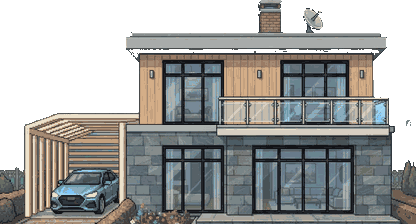
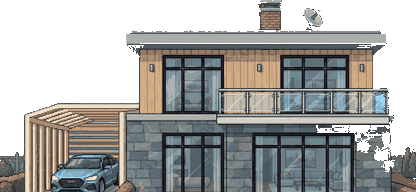
Дом: нижняя кромка по полу навеса; демо подтянута под шесть направлений
Дом обрезан на клетку выше: теперь нижняя кромка спрайта проходит там,
где колёса машины касаются пола навеса и стены встают на землю. При
прежней обрезке в спрайт попадала полоса мостовой, и машина оказывалась
утопленной в грядках. 416×192 = 13×6 клеток.

web-демо подтянута под новый магнетизм: пороги 45°/67.5°, включающие
границы, ручка на диагонали ровно на 45°, джойстик справа внизу. Демка
— эталон ощущений, и расходиться с движком ей нельзя.

Claude-Session: https://claude.ai/code/session_0136gV4z446Ram1BD5cWLTAs

diff --git a/web/index.html b/web/index.html
@@ -145,7 +145,7 @@ body{
    так экрану достаётся вся высота, а большой палец остаётся там же, где
    держит телефон. */
 #stick{
-  position:absolute;left:12px;bottom:12px;
+  position:absolute;right:12px;bottom:12px;   /* справа: под большой палец правой руки */
   width:118px;height:118px;
   border-radius:50%;
   background:radial-gradient(circle at 50% 50%, #241C15C0 0%, #1A140FA8 70%, transparent 71%);
@@ -749,7 +749,10 @@ function givePickaxe(){
    Пороги разные на вход и на выход (45° / 33°), чтобы на самой границе
    режим не мигал. */
 const ANG_ON = 45, ANG_OFF = 33;   // градусы от горизонтали
-const ANG_PURE = 72;               // круче — чистая вертикаль, без шага вбок
+/* 67.5° — середина между идеальной диагональю (45°) и вертикалью (90°):
+   вектор достаётся тому из шести направлений, к которому он ближе. */
+const ANG_PURE = 67.5;
+const DIAG = 0.70710678;           // ручка на диагонали стоит ровно на 45°
 
 // Возвращает нормированный вектор «залипания» для отрисовки ручки стика.
 function resolveDir(vx, vy, dead){
@@ -762,9 +765,11 @@ function resolveDir(vx, vy, dead){
   const ang = Math.atan2(-vy, Math.abs(vx)) * 180 / Math.PI;   // -90..90
   const z = S.dirZone;
   let zone;
-  if (z === 'up') zone = ang > ANG_OFF ? 'up' : (ang < -ANG_ON ? 'down' : 'side');
-  else if (z === 'down') zone = ang < -ANG_OFF ? 'down' : (ang > ANG_ON ? 'up' : 'side');
-  else zone = ang > ANG_ON ? 'up' : (ang < -ANG_ON ? 'down' : 'side');
+  /* Границы включающие: ровно 45° — это идеальная диагональ ↗, и отдавать
+     её шагу вбок нельзя. «До 45° — шаг, от 45° — вверх». */
+  if (z === 'up') zone = ang >= ANG_OFF ? 'up' : (ang <= -ANG_ON ? 'down' : 'side');
+  else if (z === 'down') zone = ang <= -ANG_OFF ? 'down' : (ang >= ANG_ON ? 'up' : 'side');
+  else zone = ang >= ANG_ON ? 'up' : (ang <= -ANG_ON ? 'down' : 'side');
   S.dirZone = zone;
 
   const side = vx === 0 ? 0 : Math.sign(vx);
@@ -773,10 +778,11 @@ function resolveDir(vx, vy, dead){
     return { x: side, y: 0 };
   }
   if (zone === 'up'){
-    // до 72° можно бежать и прыгать одновременно, круче — чистый взлёт
+    // ↗ и ↖ — бежать и прыгать одновременно; круче 67.5° — чистое ↑
     S.hold.dx = ang < ANG_PURE ? side : 0;
     S.hold.up = true; S.hold.down = false;
-    return { x: S.hold.dx * 0.55, y: -1 };
+    return S.hold.dx === 0 ? { x: 0, y: -1 }
+                           : { x: S.hold.dx * DIAG, y: -DIAG };
   }
   // вниз копаем строго под собой: это всегда осознанное действие
   S.hold.dx = 0; S.hold.up = false; S.hold.down = true;

diff --git a/tools/import_house.py b/tools/import_house.py
@@ -26,10 +26,10 @@ META = ROOT / "art/env/house_rich.json"
 
 TILE = 32
 TARGET_CELLS = 13          # ширина спрайта в клетках (дом занимает клетки 0-14)
-# Докуда брать рисунок по высоте: 0.72 — терраса и ступени первого этажа,
-# ниже начинается горизонтальная мостовая, которой в плоском виде сбоку не
+# Докуда брать рисунок по высоте: по полу навеса, где колёса машины касаются
+# 0.68 — пол навеса, где стоит машина; ниже начинается горизонтальная мостовая, которой в плоском виде сбоку не
 # место (см. комментарий к обрезке).
-BOTTOM_FRACTION = 0.72
+BOTTOM_FRACTION = 0.68
 PALETTE_COLORS = 48
 
 
